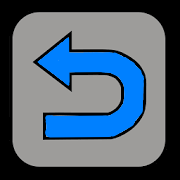
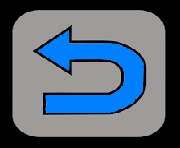
ReturnButton werkt nu in alle worlds en dingen zijn bijgewerkt.

diff --git a/ReturnButton2.java b/ReturnButton2.java
@@ -13,9 +13,9 @@ public class ReturnButton2 extends Actor {
         if(Greenfoot.mouseMoved(null))
             onThis = Greenfoot.mouseMoved(this);
         if(onThis)
-            setImage("ReturnButton2.png"); 
+            setImage("ReturnButton4.png"); 
         else
-            setImage("ReturnButton1.png"); 
+            setImage("ReturnButton3.png"); 
         if (Greenfoot.mouseClicked(this)) {
             Greenfoot.setWorld(new Titlescreen());
         }

diff --git a/GameOver.java b/GameOver.java
@@ -9,6 +9,6 @@ public class GameOver extends World {
         this.character = character;
         
         addObject(new GameOverHero(), 800, 600);
-        addObject(new ReturnButton(), 200, 650);
+        addObject(new ReturnButton(), 150, 700);
     }
 }

diff --git a/InformatieScherm.java b/InformatieScherm.java
@@ -5,6 +5,6 @@ public class InformatieScherm extends World {
        super(1000, 800, 1); 
        setBackground("InformatieScherm.png");
        
-       //addObject(new ReturnButton(), 200, 650); 
+       addObject(new ReturnButton2(), 500, 700); 
     }
 }

diff --git a/ControlsScherm.java b/ControlsScherm.java
@@ -5,6 +5,6 @@ public class ControlsScherm extends World {
        super(1000, 800, 1); 
        setBackground("ControlsScherm.png");
        
-       addObject(new ReturnButton(), 200, 650); 
+       addObject(new ReturnButton2(), 150, 700); 
     }
 }
